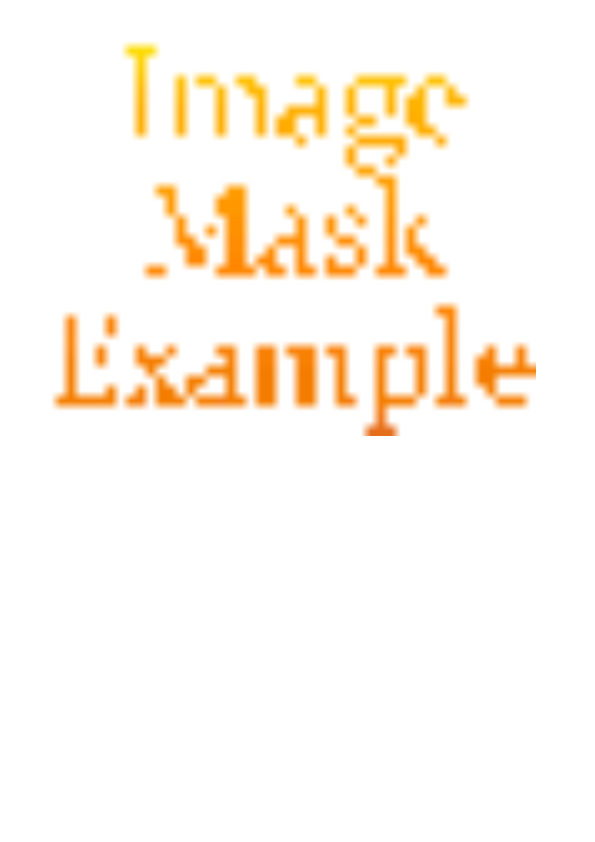
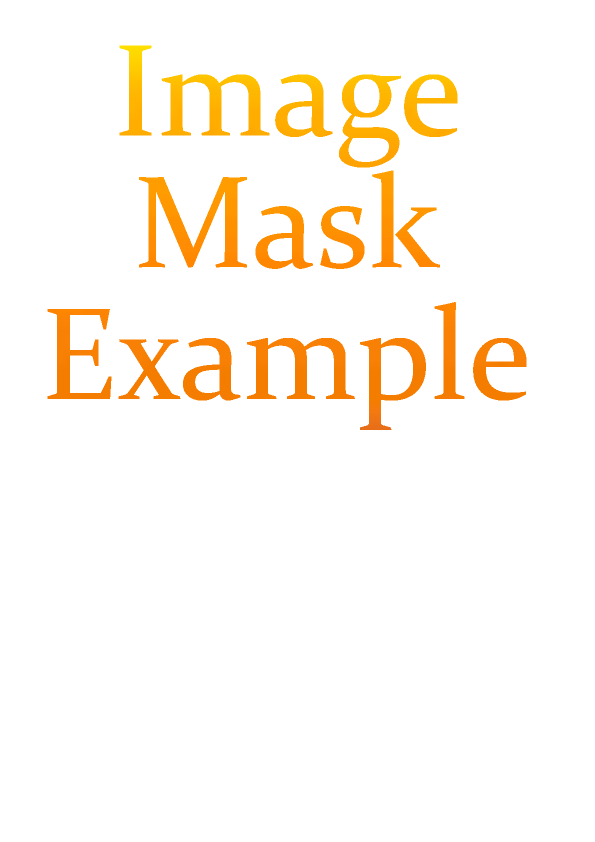
fix: apply high-resolution /Mask stencils at full resolution
issue4246's "Image Mask Example" rendered as blocky pixelated text: a
50x40 colour gradient image carried its detail in a separate 1000x800
1-bit /Mask stencil, but _applyAlpha point-sampled the mask DOWN to the
50x40 base grid before the device upscaled it, crushing the crisp letter
shapes into ~20px blocks.

When the mask is higher-resolution than the base image, build the
combined RGBA at the mask's resolution instead: bilinear-upsample the
gradient colour and apply the mask alpha at full res. The mask<=base
path is unchanged (point-sample in place). 13.010% -> 0.000% vs the
PDF.js baseline.

Changed region(s): [[0.0908, 0.0309, 0.9076, 0.5249]]

diff --git a/packages/dart_pdf_editor/lib/src/image_decoder.dart b/packages/dart_pdf_editor/lib/src/image_decoder.dart
@@ -135,8 +135,10 @@ Future<ui.Image?> _decodeOne(CosDocument cos, CosStream stream) async {
         if (rgba != null) {
           final mask =
               await _softMaskOf(cos, dict) ?? _stencilMaskOf(cos, dict);
-          if (mask != null) _applyAlpha(rgba, cmyk.width, cmyk.height, mask);
-          return _imageFromPixels(rgba, cmyk.width, cmyk.height);
+          final m = mask == null
+              ? (rgba, cmyk.width, cmyk.height)
+              : _applyAlpha(rgba, cmyk.width, cmyk.height, mask);
+          return _imageFromPixels(m.$1, m.$2, m.$3);
         }
       }
     }
@@ -163,8 +165,10 @@ Future<ui.Image?> _decodeOne(CosDocument cos, CosStream stream) async {
     if (ranges != null || colorKey != null) {
       _applyDecodeAndColorKey(rgba, components, ranges, colorKey);
     }
-    if (mask != null) _applyAlpha(rgba, base.width, base.height, mask);
-    return _imageFromPixels(rgba, base.width, base.height);
+    final m = mask == null
+        ? (rgba, base.width, base.height)
+        : _applyAlpha(rgba, base.width, base.height, mask);
+    return _imageFromPixels(m.$1, m.$2, m.$3);
   }
   if (filters.contains('JPXDecode')) {
     final jpx = JpxDecoder.decode(
@@ -173,8 +177,10 @@ Future<ui.Image?> _decodeOne(CosDocument cos, CosStream stream) async {
     final rgba = _jpxToRgba(jpx);
     if (rgba == null) return null;
     final mask = await _softMaskOf(cos, dict) ?? _stencilMaskOf(cos, dict);
-    if (mask != null) _applyAlpha(rgba, jpx.width, jpx.height, mask);
-    return _imageFromPixels(rgba, jpx.width, jpx.height);
+    final m = mask == null
+        ? (rgba, jpx.width, jpx.height)
+        : _applyAlpha(rgba, jpx.width, jpx.height, mask);
+    return _imageFromPixels(m.$1, m.$2, m.$3);
   }
   // CCITTFaxDecode runs as a regular stream filter (pure-Dart decoder in
   // pdf_cos) and lands here as 1-bit gray samples
@@ -205,7 +211,10 @@ Future<ui.Image?> _decodeOne(CosDocument cos, CosStream stream) async {
 
   if (!isMask) {
     final mask = await _softMaskOf(cos, dict) ?? _stencilMaskOf(cos, dict);
-    if (mask != null) _applyAlpha(rgba, width, height, mask);
+    if (mask != null) {
+      final m = _applyAlpha(rgba, width, height, mask);
+      return _imageFromPixels(m.$1, m.$2, m.$3);
+    }
   }
   return _imageFromPixels(rgba, width, height);
 }
@@ -560,14 +569,55 @@ void _applyDecodeAndColorKey(Uint8List rgba, int components,
 
 /// Writes [mask] into the alpha channel of [rgba], resampling
 /// nearest-neighbor when dimensions differ.
-void _applyAlpha(Uint8List rgba, int width, int height, _SoftMask mask) {
-  for (var y = 0; y < height; y++) {
-    final maskY = y * mask.height ~/ height;
-    for (var x = 0; x < width; x++) {
-      final maskX = x * mask.width ~/ width;
-      rgba[(y * width + x) * 4 + 3] = mask.alpha[maskY * mask.width + maskX];
+/// Bakes [mask]'s alpha into [rgba], returning the resulting (bytes, width,
+/// height). When the mask is HIGHER resolution than the base image — common
+/// for /Mask stencils where a tiny colour image carries a large crisp cutout
+/// (issue4246: a 50x40 gradient under a 1000x800 letter mask) — the result is
+/// built at the mask's resolution with the colour bilinearly upsampled, so the
+/// cutout's detail survives instead of being crushed to the base grid (which
+/// the device would then upscale into visible blocks). Otherwise the mask is
+/// point-sampled onto the base in place.
+(Uint8List, int, int) _applyAlpha(
+    Uint8List rgba, int width, int height, _SoftMask mask) {
+  if (mask.width * mask.height <= width * height) {
+    for (var y = 0; y < height; y++) {
+      final maskY = y * mask.height ~/ height;
+      for (var x = 0; x < width; x++) {
+        final maskX = x * mask.width ~/ width;
+        rgba[(y * width + x) * 4 + 3] = mask.alpha[maskY * mask.width + maskX];
+      }
+    }
+    return (rgba, width, height);
+  }
+  final mw = mask.width;
+  final mh = mask.height;
+  final out = Uint8List(mw * mh * 4);
+  for (var my = 0; my < mh; my++) {
+    final fy = (my + 0.5) * height / mh - 0.5;
+    final y0 = fy.floor();
+    final wy = fy - y0;
+    final y0c = y0.clamp(0, height - 1);
+    final y1c = (y0 + 1).clamp(0, height - 1);
+    for (var mx = 0; mx < mw; mx++) {
+      final fx = (mx + 0.5) * width / mw - 0.5;
+      final x0 = fx.floor();
+      final wx = fx - x0;
+      final x0c = x0.clamp(0, width - 1);
+      final x1c = (x0 + 1).clamp(0, width - 1);
+      final i00 = (y0c * width + x0c) * 4;
+      final i01 = (y0c * width + x1c) * 4;
+      final i10 = (y1c * width + x0c) * 4;
+      final i11 = (y1c * width + x1c) * 4;
+      final o = (my * mw + mx) * 4;
+      for (var c = 0; c < 3; c++) {
+        final top = rgba[i00 + c] * (1 - wx) + rgba[i01 + c] * wx;
+        final bot = rgba[i10 + c] * (1 - wx) + rgba[i11 + c] * wx;
+        out[o + c] = (top * (1 - wy) + bot * wy).round().clamp(0, 255);
+      }
+      out[o + 3] = mask.alpha[my * mw + mx];
     }
   }
+  return (out, mw, mh);
 }
 
 /// The parsed ICC profile of an ICCBased image color space, when the

diff --git a/packages/dart_pdf_editor/test/image_decoder_test.dart b/packages/dart_pdf_editor/test/image_decoder_test.dart
@@ -118,6 +118,45 @@ void main() {
     });
   });
 
+  testWidgets('a higher-res /Mask stencil keeps its resolution (issue4246)',
+      (tester) async {
+    await tester.runAsync(() async {
+      // A tiny colour image carrying its detail in a much larger stencil — the
+      // mask must NOT be crushed down to the base grid (that produced blocky
+      // letters). Base 1x1 red, mask 4x1 paint/skip/paint/skip.
+      final mask = CosStream(
+        CosDictionary({
+          'ImageMask': const CosBoolean(true),
+          'Width': const CosInteger(4),
+          'Height': const CosInteger(1),
+          'BitsPerComponent': const CosInteger(1),
+        }),
+        // bits 0,1,0,1 -> paint,skip,paint,skip
+        Uint8List.fromList([0x50]),
+      );
+      final image = CosStream(
+        CosDictionary({
+          'Width': const CosInteger(1),
+          'Height': const CosInteger(1),
+          'BitsPerComponent': const CosInteger(8),
+          'ColorSpace': const CosName('DeviceRGB'),
+          'Mask': mask,
+        }),
+        Uint8List.fromList([255, 0, 0]),
+      );
+      final images = await decodeImages(cos, [req(image)]);
+      final decoded = images[image]!;
+      // Output is built at the MASK's resolution, not the 1x1 base.
+      expect(decoded.width, 4);
+      expect(decoded.height, 1);
+      final pixels = await pixelsOf(decoded);
+      expect(pixels.sublist(0, 4), [255, 0, 0, 255]); // crisp painted red
+      expect(pixels.sublist(4, 8), [0, 0, 0, 0]); // crisp cutout
+      expect(pixels.sublist(8, 12), [255, 0, 0, 255]);
+      expect(pixels.sublist(12, 16), [0, 0, 0, 0]);
+    });
+  });
+
   testWidgets('/Decode [1 0] inverts gray samples', (tester) async {
     await tester.runAsync(() async {
       final image = CosStream(